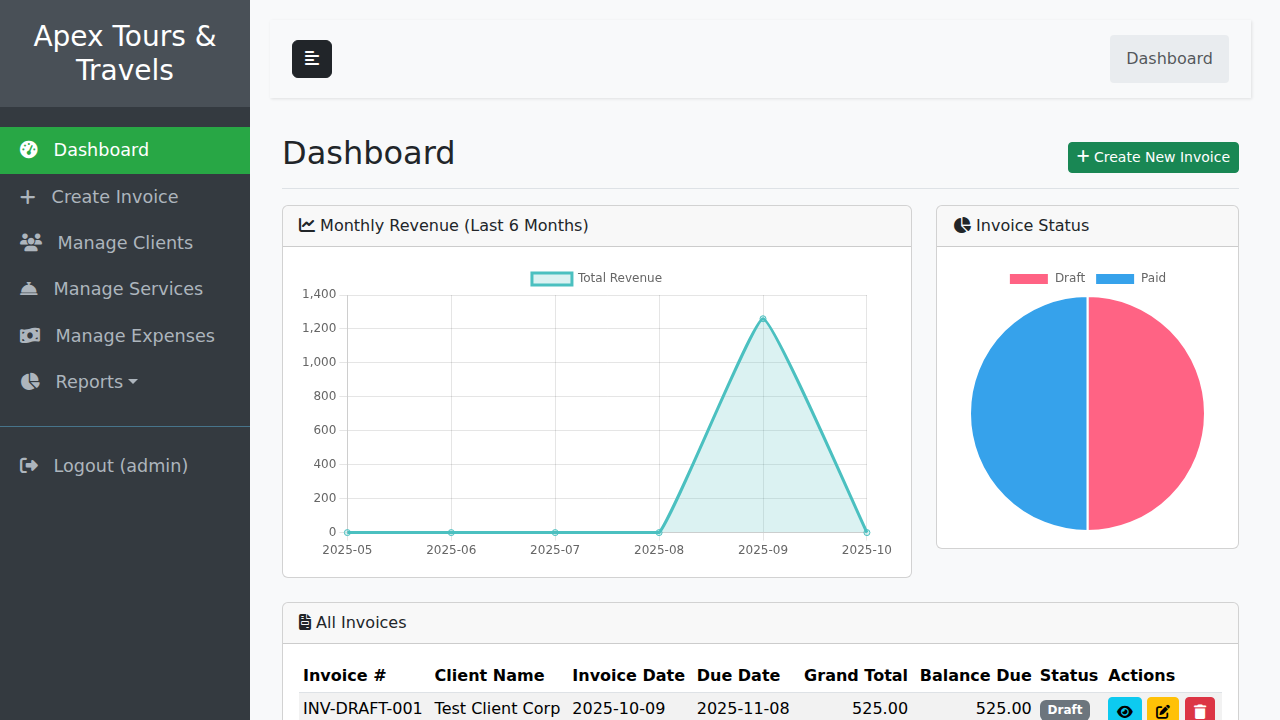
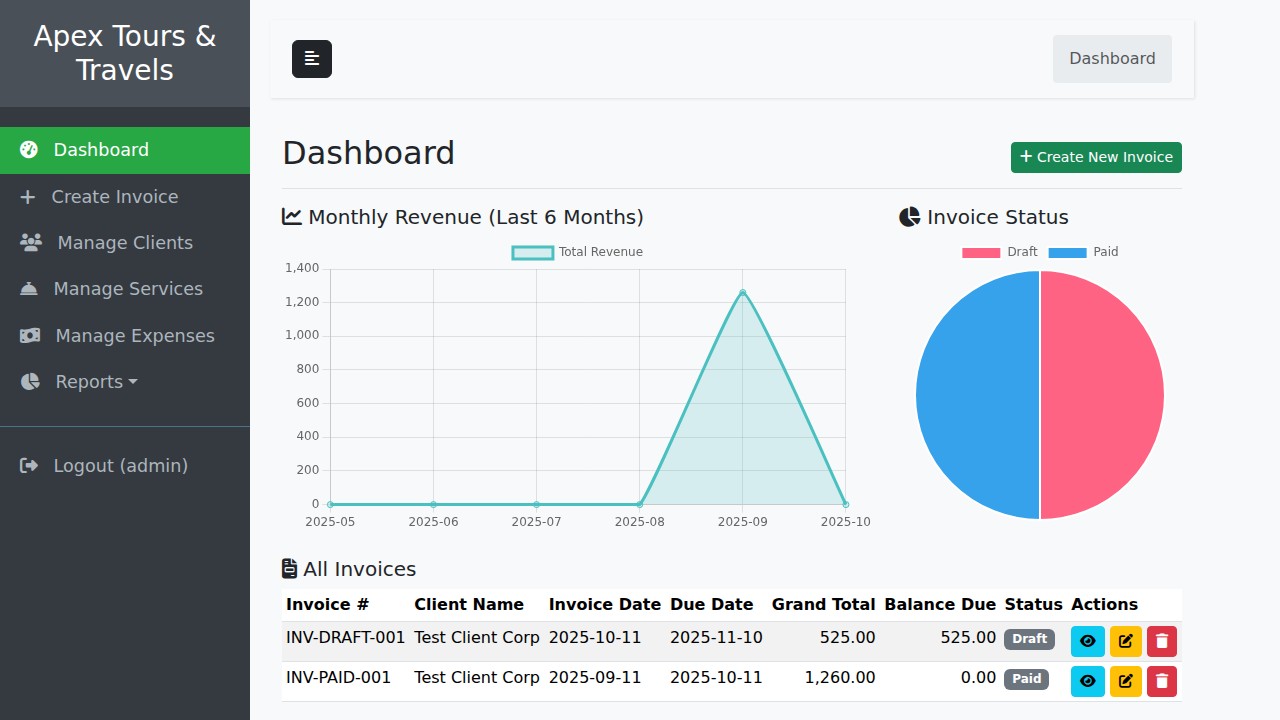
Merge pull request #4 from priyeshdaspookulangara/feat/accounting-system
Feat/accounting system

Pull request: Feat/accounting system

diff --git a/index.php b/index.php
@@ -40,36 +40,21 @@ include 'templates/header.php';
 <!-- Dashboard Charts Row -->
 <div class="row mb-4">
     <div class="col-md-8">
-        <div class="card">
-            <div class="card-header">
-                <i class="fas fa-chart-line"></i> Monthly Revenue (Last 6 Months)
-            </div>
-            <div class="card-body">
-                <canvas id="monthlyRevenueChart"></canvas>
-            </div>
-        </div>
+        <h5><i class="fas fa-chart-line"></i> Monthly Revenue (Last 6 Months)</h5>
+        <canvas id="monthlyRevenueChart"></canvas>
     </div>
     <div class="col-md-4">
-        <div class="card">
-            <div class="card-header">
-                <i class="fas fa-chart-pie"></i> Invoice Status
-            </div>
-            <div class="card-body">
-                <canvas id="invoiceStatusChart"></canvas>
-            </div>
-        </div>
+        <h5><i class="fas fa-chart-pie"></i> Invoice Status</h5>
+        <canvas id="invoiceStatusChart"></canvas>
     </div>
 </div>
 
 
 <!-- Invoices Table -->
-<div class="card">
-    <div class="card-header">
-        <i class="fas fa-file-invoice"></i> All Invoices
-    </div>
-    <div class="card-body">
-        <?php if (isset($page_error)): ?>
-            <div class="alert alert-danger">
+<h5 class="mt-4"><i class="fas fa-file-invoice"></i> All Invoices</h5>
+<div class="table-responsive">
+    <?php if (isset($page_error)): ?>
+        <div class="alert alert-danger">
                 <?php echo htmlspecialchars($page_error); ?>
             </div>
         <?php endif; ?>

diff --git a/login.php b/login.php
@@ -96,11 +96,17 @@ include 'templates/header.php';
     <button type="submit" class="btn">Login</button>
 </form>
 
-<p style="margin-top: 20px;">
-    Default credentials (if you ran setup.php):<br>
-    Username: <strong>admin</strong><br>
-    Password: <strong>password123</strong>
-</p>
+<div class="mt-4 p-3 bg-light border rounded">
+    <h6 class="mb-3">Default Credentials (after setup)</h6>
+    <div class="row">
+        <div class="col-4"><strong>Username:</strong></div>
+        <div class="col-8">admin</div>
+    </div>
+    <div class="row">
+        <div class="col-4"><strong>Password:</strong></div>
+        <div class="col-8">password123</div>
+    </div>
+</div>
 
 <?php
 include 'templates/footer.php';

diff --git a/setup.php b/setup.php
@@ -75,10 +75,9 @@ $hashed_password = password_hash($admin_password, PASSWORD_DEFAULT);
 
 $s_admin_username = sanitize_string($admin_username);
 $s_admin_email = sanitize_string($admin_email);
-$s_hashed_password = sanitize_string($hashed_password);
 
 // The table is new, so no need to check if user exists.
-$sql_insert_admin = "INSERT INTO `users` (`username`, `password`, `email`) VALUES ('$s_admin_username', '$s_hashed_password', '$s_admin_email')";
+$sql_insert_admin = "INSERT INTO `users` (`username`, `password`, `email`) VALUES ('$s_admin_username', '$hashed_password', '$s_admin_email')";
 if (db_query($sql_insert_admin)) {
     echo "Admin user '$admin_username' created successfully.<br>";
     echo "Login with Username: $admin_username, Password: $admin_password <br>";